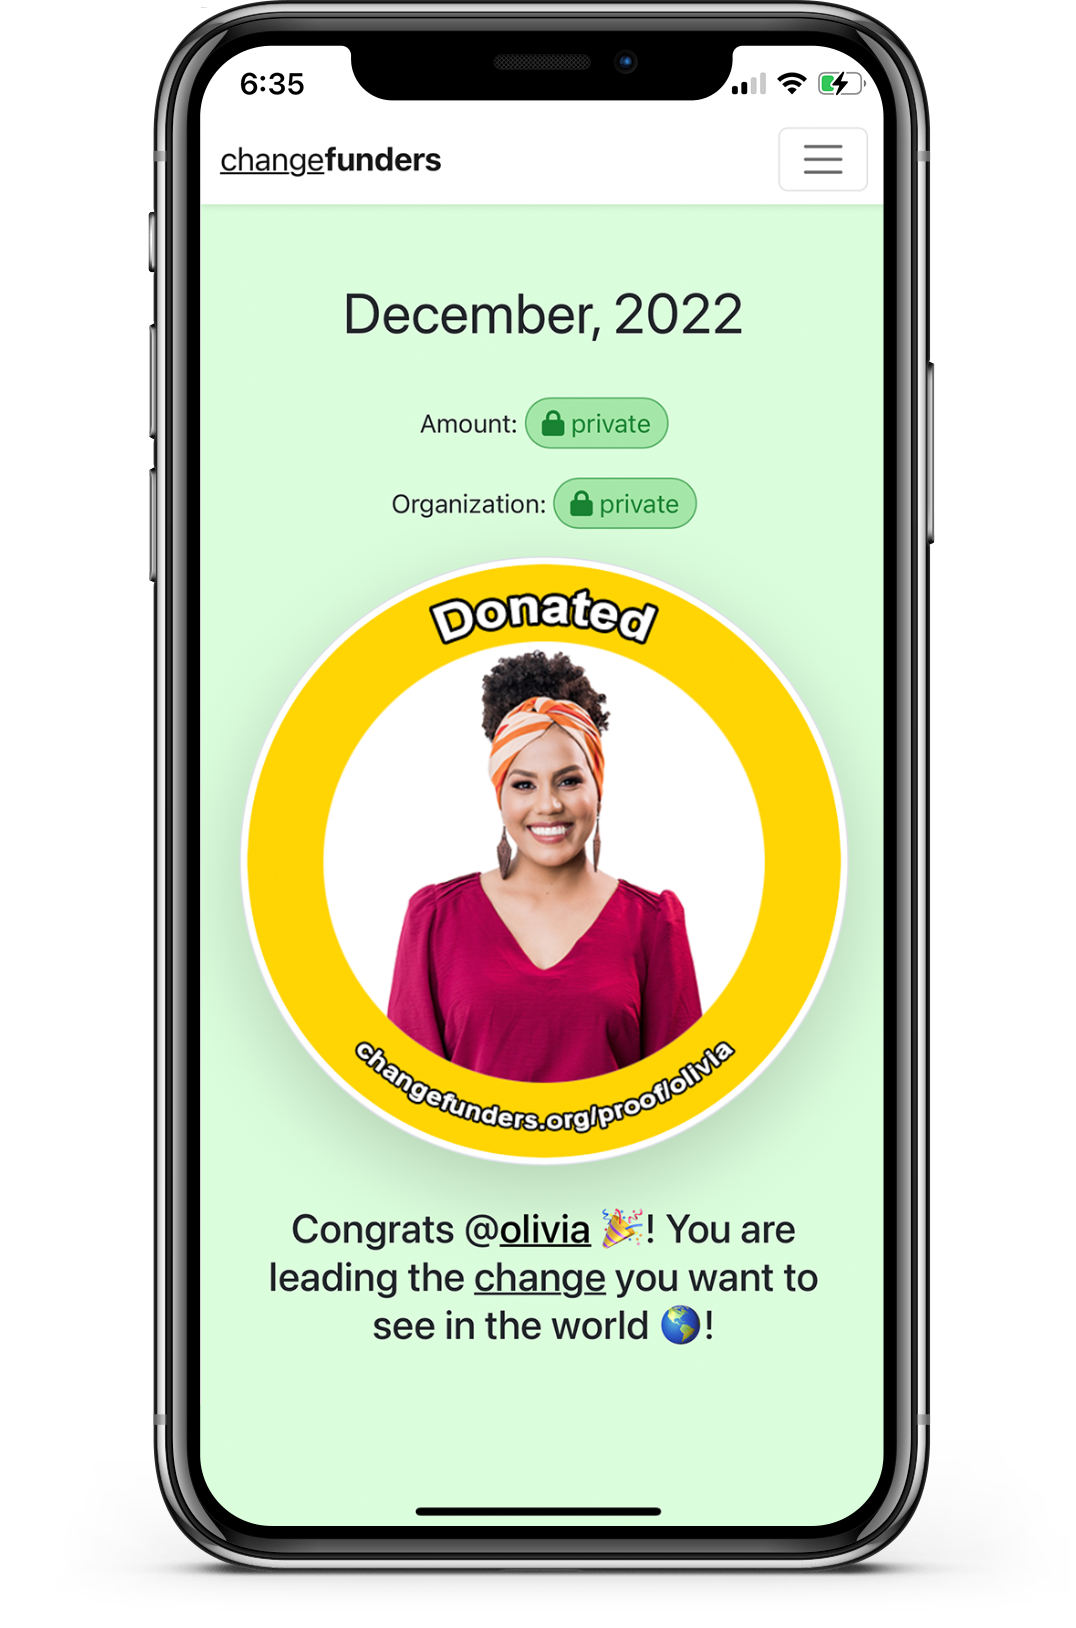
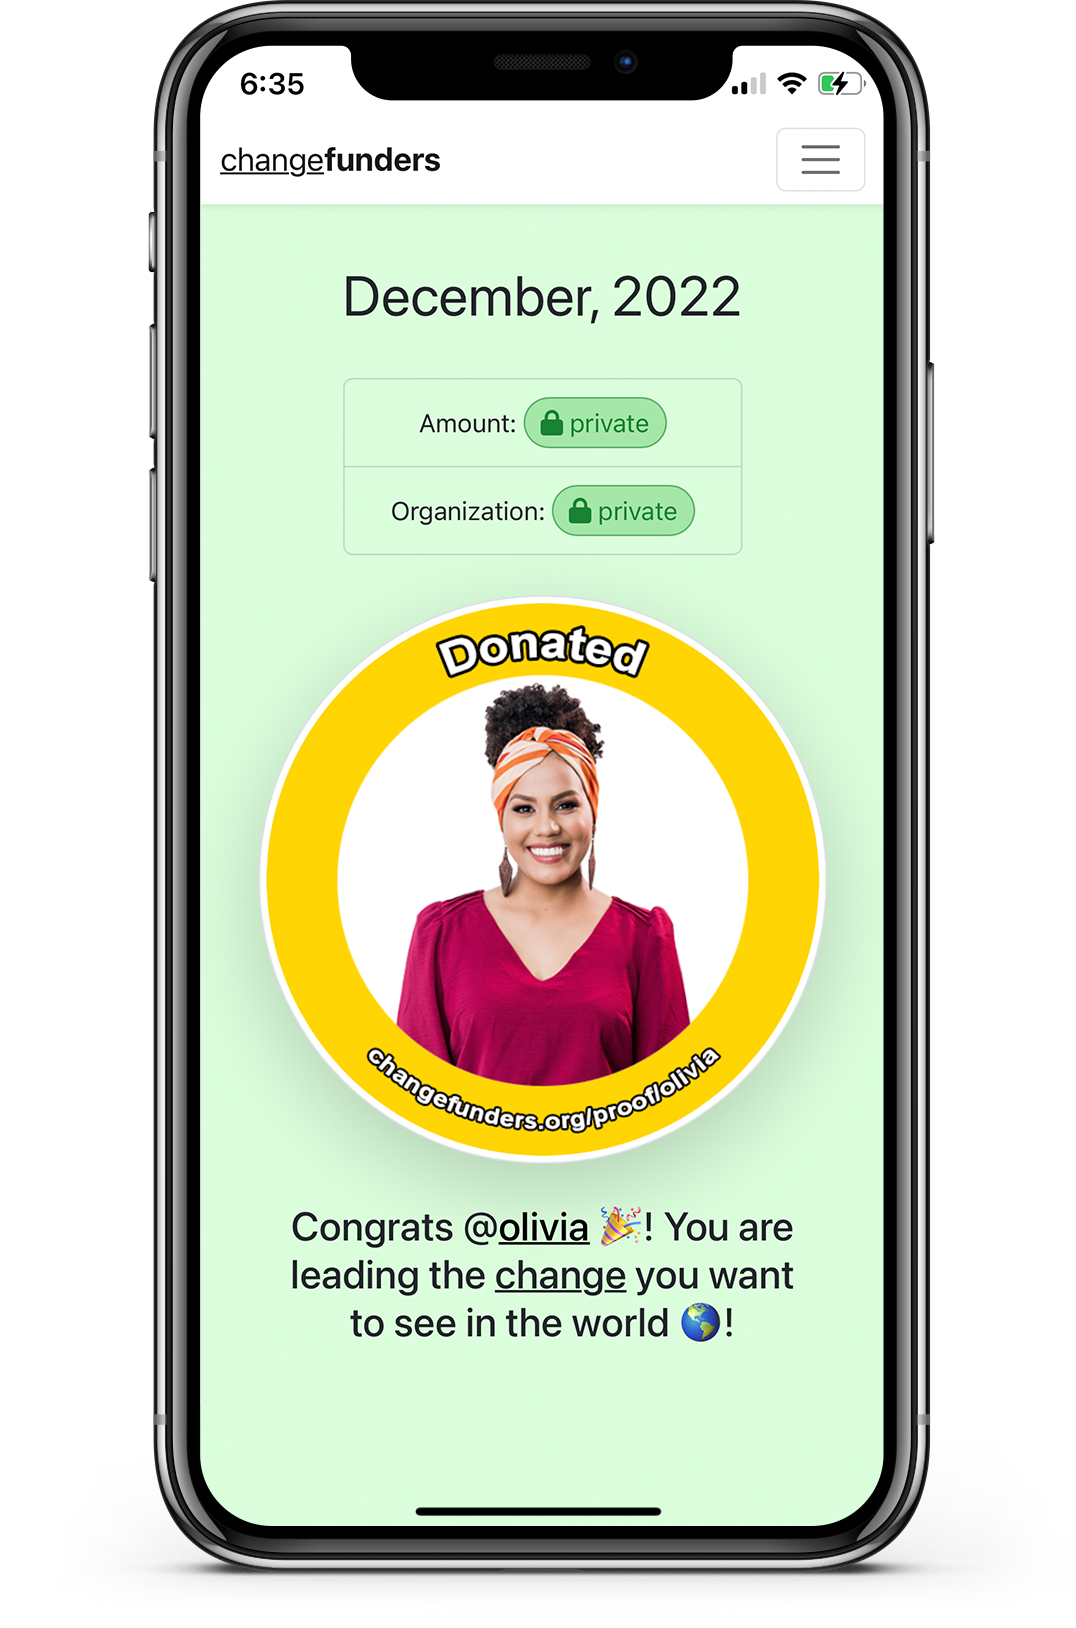
landing page done

Changed region(s): [[0.2147, 0.2457, 0.7974, 0.8292], [0.3067, 0.1536, 0.7054, 0.215], [0.2147, 0.0921, 0.3987, 0.1229]]

diff --git a/website/templates/not_signed_in/landing/index.html b/website/templates/not_signed_in/landing/index.html
@@ -16,13 +16,13 @@
   </div>
   <a href="/proof/ashley" target="_blank"><img src="/static/images/proof/proof_ashley.png" class="img-fluid img-thumbnail rounded-circle mx-auto d-block shadow-lg custom-max-width-2 custom-img-index-2 custom-img-position-2" alt="donator proof"></a>
   <div class="container custom-mt-1 text-center mx-auto custom-stroke-1">
-    <h1 class="custom-header-2 custom-index-2 custom-position-relative">Fund the <span class="text-decoration-underline">change</span> you want to see in the world first &#127758;, then complain.</h1>
+    <h1 class="custom-header-2 custom-index-2 custom-position-relative custom-m-0">Fund the <span class="text-decoration-underline">change</span> you want to see in the world first &#127758;, then complain.</h1>
   </div>
-  <div class="custom-shape-divider-bottom-1670898795">
-    <svg data-name="Layer 1" xmlns="http://www.w3.org/2000/svg" viewBox="0 0 1200 120" preserveAspectRatio="none">
-        <path d="M321.39,56.44c58-10.79,114.16-30.13,172-41.86,82.39-16.72,168.19-17.73,250.45-.39C823.78,31,906.67,72,985.66,92.83c70.05,18.48,146.53,26.09,214.34,3V0H0V27.35A600.21,600.21,0,0,0,321.39,56.44Z" class="shape-fill"></path>
-    </svg>
-  </div>
+</div>
+<div class="custom-shape-divider-bottom-1670898795 custom-bg-yellow-1">
+  <svg data-name="Layer 1" xmlns="http://www.w3.org/2000/svg" viewBox="0 0 1200 120" preserveAspectRatio="none">
+      <path d="M321.39,56.44c58-10.79,114.16-30.13,172-41.86,82.39-16.72,168.19-17.73,250.45-.39C823.78,31,906.67,72,985.66,92.83c70.05,18.48,146.53,26.09,214.34,3V0H0V27.35A600.21,600.21,0,0,0,321.39,56.44Z" class="shape-fill"></path>
+  </svg>
 </div>
 
 <div class="container-fluid custom-bg-red-1">
@@ -140,15 +140,15 @@
     <h2 class="custom-header-1">Benefits</h2>
   </div>
   <div class="container text-center custom-pt-2 custom-subheader-1 custom-max-width-1">
-    <p>Every month you receive verified proof of your donation.</p>
+    <p class="custom-pb-2">Every month you receive verified proof of your donation.</p>
     <a href="/proof/olivia" target="_blank"><img src="/static/images/landing/iphone_screenshot1.png" class="custom-img-size-1" alt="donator proof"></a>
   </div>
   <div class="container text-center custom-pt-2 custom-subheader-1 custom-max-width-1">
-    <p>Lead by example. Spread awareness. Promote your donation. Inspire others!</p>
+    <p class="custom-pb-2">Lead by example. Spread awareness. Promote your donation. Inspire others!</p>
     <a href="/proof/olivia" target="_blank"><img src="/static/images/landing/iphone_tweet.png" class="custom-img-size-1" alt="donator proof"></a>
   </div>
   <div class="container text-center custom-pt-2 custom-subheader-1 custom-max-width-1">
-    <p>Anyone who doubts you actually donated can go to your verified <span class="text-decoration-underline">change</span><span class="text-decoration-none fw-bold">funders</span> URL and view the proof.</p>
+    <p class="custom-pb-2">Anyone who doubts you actually donated can go to your verified <span class="text-decoration-underline">change</span><span class="text-decoration-none fw-bold">funders</span> URL and view the proof.</p>
     <a href="/proof/olivia" target="_blank"><img src="/static/images/landing/twitter_profile.png" class="custom-img-size-1" alt="donator proof"></a>
   </div>
   <div class="custom-height-filler-2"></div>
@@ -164,12 +164,37 @@
     <h2 class="custom-header-1">Awareness newsletter</h2>
   </div>
   <div class="container text-center custom-pt-2 custom-subheader-1 custom-max-width-1">
-    <p class="custom-mb-3">You receive a monthly newsletter that pulls the latest <span class="fst-italic">articles</span> + <span class="fst-italic">stories</span> + <span class="fst-italic">trending topics</span> + <span class="fst-italic">events</span> for the social causes that you support.</p>
+    <p class="custom-mb-1">You receive a monthly newsletter custom built around the social causes that you support.</p>
   </div>
   <div class="container text-center custom-max-width-1">
-    <a href="#" target="_blank"><img src="/static/images/landing/gmail_notification2.png" class="custom-img-size-3 custom-border-radius-1 shadow-lg" alt="donator proof"></a>
-    <p class="custom-subheader-2 custom-font-grey-1 custom-pt-3">Monthly newsletter is 100% optional, and <span class="text-decoration-underline">change</span><span class="text-decoration-none fw-bold">funders</span> will never blow up your inbox (like other newsletters do).</p>
+    <img src="/static/images/landing/gmail_notification2.png" class="custom-img-size-3 custom-border-radius-1 shadow-lg" alt="donator proof">
   </div>
+  <div class="container text-center custom-pt-1 custom-max-width-1">
+    <p class="custom-subheader-1">Awareness newsletter includes:</h2>
+  </div>
+  <ul class="list-group custom-max-width-1 mx-auto">
+    <li class="list-group-item custom-p-2">Articles</li>
+    <li class="list-group-item custom-p-2">News & law updates</li>
+    <li class="list-group-item custom-p-2">Organizational announcements & events</li>
+    <li class="list-group-item custom-p-2">Success stories</li>
+    <li class="list-group-item custom-p-2">Social change updates</li>
+    <li class="list-group-item custom-p-2">Trending topics</li>
+  </ul>
+</div>
+
+<div class="container text-center custom-pt-2">
+  <p class="custom-header-2 custom-mb-1">Become a <span class="text-decoration-underline">change</span><span class="text-decoration-none fw-bold">funder</span> today.</p>
+</div>
+<div class="container text-center custom-pb-1">
+  <form method="POST" enctype="multipart/form-data" class="form-custom-width-1 mx-auto p-5 border custom-border-radius-1 shadow-lg custom-bg-grey-1" action="{{ url_for('auth.signup_function') }}">
+    <div class="mb-3">
+      <label for="uiEmailVariousPages1" class="form-label">Email</label>
+      <input type="email" class="form-control " id="uiEmailVariousPages1" name="uiEmailVariousPages1" value="{{ redirect_var_email }}" required>
+    </div>
+    <div class="text-center">
+      <button type="submit" class="btn btn-primary">Get started</button>
+    </div>
+  </form>
 </div>
 {% endblock %}
 <!-- ------------------------------------- content end ------------------------------------- -->

diff --git a/website/templates/not_signed_in/proof/individual/index.html b/website/templates/not_signed_in/proof/individual/index.html
@@ -15,8 +15,11 @@
     <div class="container text-center custom-pt-1">
       <p class="custom-header-3 custom-mb-2">{{ current_date_str_to_html }}</p>
       <div class="container">
-        <p class="custom-p-1">Amount: <span class="custom-tag-1 custom-tag-green-1"><i class="fa-solid fa-lock custom-icon-1"></i>private</span></p>
-        <p class="custom-p-1">Organization: <span class="custom-tag-1 custom-tag-green-1"><i class="fa-solid fa-lock custom-icon-1"></i>private</span></p>
+        <ul class="list-group custom-max-width-3 mx-auto custom-pb-2">
+          <!-- <li class="list-group-item custom-bg-green-1 custom-p-2 custom-subheader-1">{{ current_date_str_to_html }}</li> -->
+          <li class="list-group-item custom-bg-green-1 custom-p-2">Amount: <span class="custom-tag-1 custom-tag-green-1"><i class="fa-solid fa-lock custom-icon-1"></i>private</span></li>
+          <li class="list-group-item custom-bg-green-1 custom-p-2">Organization: <span class="custom-tag-1 custom-tag-green-1"><i class="fa-solid fa-lock custom-icon-1"></i>private</span></li>
+        </ul>
       </div>
       <a href="/signup"><img src="{{ img_url_to_html }}" class="img-thumbnail rounded-circle mx-auto d-block shadow-lg" alt="donator proof"></a>
       <div class="container custom-pb-1">

diff --git a/website/static/css/aaa_base/index.css b/website/static/css/aaa_base/index.css
@@ -133,6 +133,9 @@
 .custom-subheader-3 {
   font-size: 10px;
 }
+.custom-subheader-4 {
+  font-size: 30px;
+}
 /* ------------------------------------- header/subheader end ------------------------------------- */
 /* ------------------------------------- highlight start ------------------------------------- */
 .custom-username-highlight-1,
@@ -187,7 +190,7 @@
   max-width: 100%;
 }
 .custom-img-size-3 {
-  width: 200px;
+  width: 250px;
   max-width: 100%;
 }
 .custom-org-logo-wide-1 {
@@ -210,6 +213,9 @@
 }
 /* ------------------------------------- index end ------------------------------------- */
 /* ------------------------------------- margins start ------------------------------------- */
+.custom-m-0 {
+  margin: 0px;
+}
 .custom-m-1 {
   margin: 25px;
 }
@@ -260,6 +266,9 @@
 .custom-p-1 {
   padding: 5px;
 }
+.custom-p-2 {
+  padding: 15px 5px;
+}
 .custom-pt-1 {
   padding-top: 100px;
 }
@@ -271,6 +280,9 @@
 }
 .custom-pb-1 {
   padding-bottom: 100px;
+}
+.custom-pb-2 {
+  padding-bottom: 25px;
 }
 .custom-py-1 {
   padding: 50px 0 25px 0;
@@ -481,5 +493,8 @@
 }
 .custom-max-width-2 {
   max-width: 90%;
+}
+.custom-max-width-3 {
+  max-width: 250px;
 }
 /* ------------------------------------- width end ------------------------------------- */
